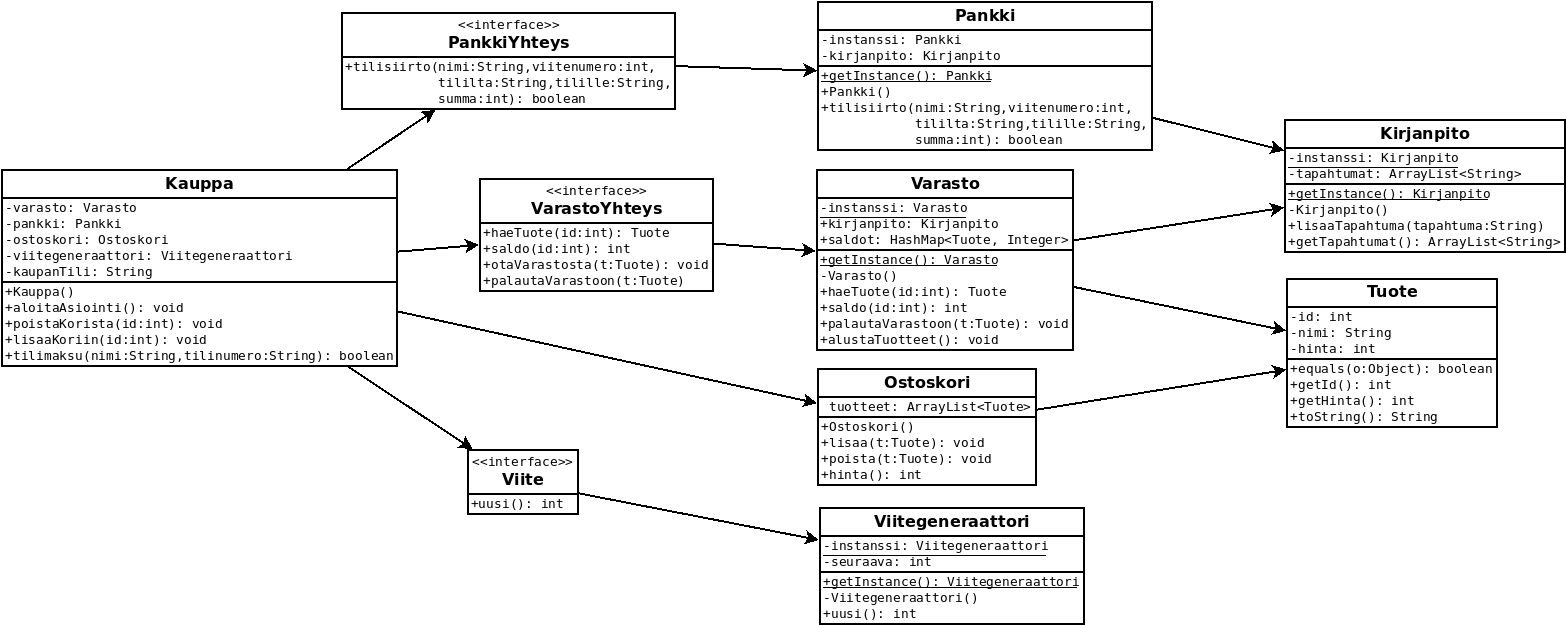
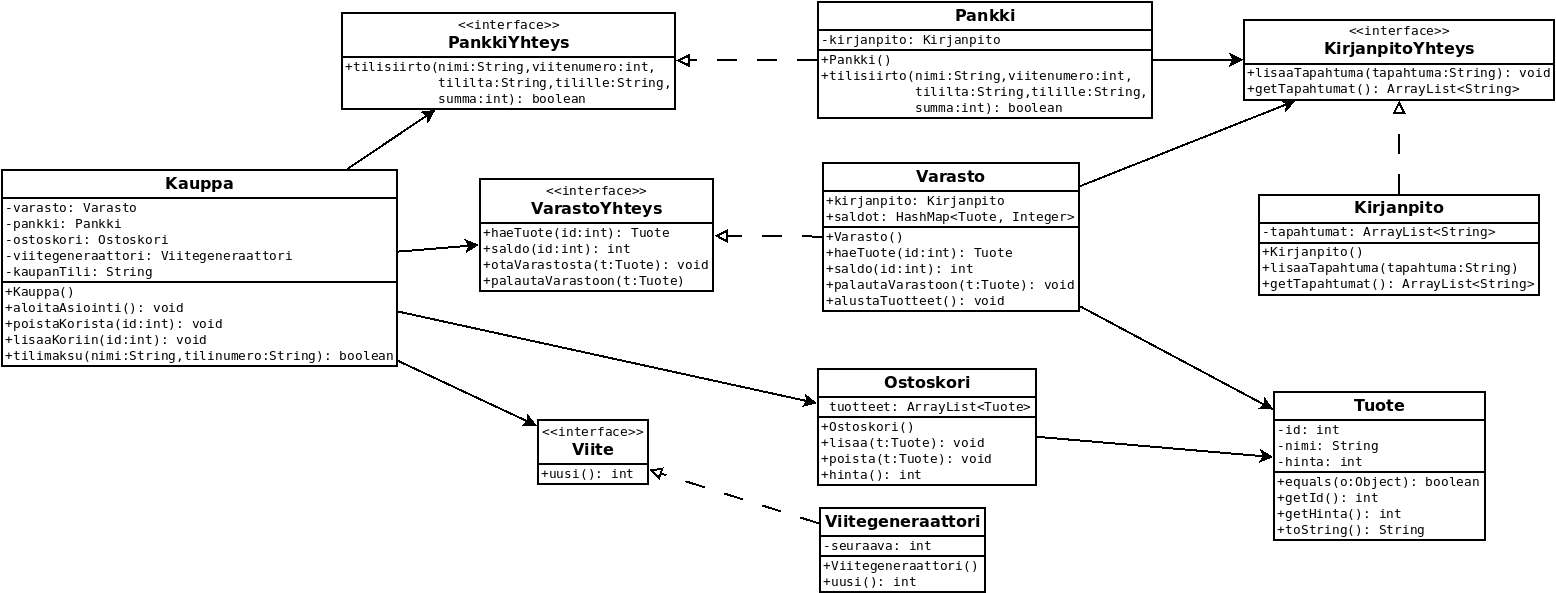
Viikko 2 - Tehtävä 10

diff --git a/viikko2/tehtavat9-12/Verkkokauppa1/src/main/java/ohtu/Main.java b/viikko2/tehtavat9-12/Verkkokauppa1/src/main/java/ohtu/Main.java
@@ -5,10 +5,11 @@ import ohtu.verkkokauppa.*;
 public class Main {
 
     public static void main(String[] args) {
+        Kirjanpito kirjanpito = new Kirjanpito();
         Kauppa kauppa = new Kauppa(
-                Varasto.getInstance(),
-                Pankki.getInstance(),
-                Viitegeneraattori.getInstance()
+                new Varasto(kirjanpito),
+                new Pankki(kirjanpito),
+                new Viitegeneraattori()
         );
 
         // kauppa hoitaa yhden asiakkaan kerrallaan seuraavaan tapaan:
@@ -28,7 +29,7 @@ public class Main {
         kauppa.tilimaksu("Arto Vihavainen", "3425-1652");
 
         // kirjanpito
-        for (String tapahtuma : Kirjanpito.getInstance().getTapahtumat()) {
+        for (String tapahtuma : kirjanpito.getTapahtumat()) {
             System.out.println(tapahtuma);
         }
     }

diff --git a/viikko2/tehtavat9-12/Verkkokauppa1/src/main/java/ohtu/verkkokauppa/Kirjanpito.java b/viikko2/tehtavat9-12/Verkkokauppa1/src/main/java/ohtu/verkkokauppa/Kirjanpito.java
@@ -3,27 +3,19 @@ package ohtu.verkkokauppa;
 
 import java.util.ArrayList;
 
-public class Kirjanpito {
-    private static Kirjanpito instance;
-    
-    public static Kirjanpito getInstance() {
-        if ( instance==null) {
-            instance = new Kirjanpito();
-        }
-        
-        return instance;
-    }
-    
+public class Kirjanpito implements KirjanpitoYhteys {
     private ArrayList<String> tapahtumat;
 
-    private Kirjanpito() {
+    public Kirjanpito() {
         tapahtumat = new ArrayList<String>();
     }
     
+    @Override
     public void lisaaTapahtuma(String tapahtuma) {
         tapahtumat.add(tapahtuma);
     }
 
+    @Override
     public ArrayList<String> getTapahtumat() {
         return tapahtumat;
     }       

diff --git a/viikko2/tehtavat9-12/Verkkokauppa1/src/main/java/ohtu/verkkokauppa/Varasto.java b/viikko2/tehtavat9-12/Verkkokauppa1/src/main/java/ohtu/verkkokauppa/Varasto.java
@@ -3,22 +3,11 @@ package ohtu.verkkokauppa;
 import java.util.*;
 
 public class Varasto implements VarastoYhteys {
-
-    private static Varasto instanssi;
-
-    public static Varasto getInstance() {
-        if (instanssi == null) {
-            instanssi = new Varasto();
-        }
-
-        return instanssi;
-    }
-
-    private Kirjanpito kirjanpito;
+    private KirjanpitoYhteys kirjanpito;
     private HashMap<Tuote, Integer> saldot;  
     
-    private Varasto() {
-        kirjanpito = Kirjanpito.getInstance();
+    public Varasto(KirjanpitoYhteys k) {
+        kirjanpito = k;
         saldot = new HashMap<Tuote, Integer>();
         alustaTuotteet();
     }

diff --git a/viikko2/tehtavat9-12/Verkkokauppa1/src/main/java/ohtu/verkkokauppa/Pankki.java b/viikko2/tehtavat9-12/Verkkokauppa1/src/main/java/ohtu/verkkokauppa/Pankki.java
@@ -1,20 +1,10 @@
 package ohtu.verkkokauppa;
 
 public class Pankki implements PankkiYhteys {
+    private KirjanpitoYhteys kirjanpito;
 
-    private static Pankki instanssi;
-
-    public static Pankki getInstance() {
-        if (instanssi == null) {
-            instanssi = new Pankki();
-        }
-
-        return instanssi;
-    }
-    private Kirjanpito kirjanpito;
-
-    public Pankki() {
-        kirjanpito = Kirjanpito.getInstance();
+    public Pankki(KirjanpitoYhteys k) {
+        kirjanpito = k;
     }
 
     public boolean tilisiirto(String nimi, int viitenumero, String tililta, String tilille, int summa) {

diff --git a/viikko2/tehtavat9-12/Verkkokauppa1/src/main/java/ohtu/verkkokauppa/Viitegeneraattori.java b/viikko2/tehtavat9-12/Verkkokauppa1/src/main/java/ohtu/verkkokauppa/Viitegeneraattori.java
@@ -1,20 +1,9 @@
 package ohtu.verkkokauppa;
 
 public class Viitegeneraattori implements Viite {
-
-    private static Viitegeneraattori instanssi;
-
-    public static Viitegeneraattori getInstance() {
-        if (instanssi == null) {
-            instanssi = new Viitegeneraattori();
-        }
-
-        return instanssi;
-    }
-    
     private int seuraava;
     
-    private Viitegeneraattori(){
+    public Viitegeneraattori(){
         seuraava = 1;    
     }
     

diff --git a/viikko2/tehtavat9-12/Verkkokauppa1/src/main/java/ohtu/verkkokauppa/KirjanpitoYhteys.java b/viikko2/tehtavat9-12/Verkkokauppa1/src/main/java/ohtu/verkkokauppa/KirjanpitoYhteys.java
@@ -1,0 +1,12 @@
+package ohtu.verkkokauppa;
+
+import java.util.*;
+
+/**
+ *
+ * @author pentu
+ */
+public interface KirjanpitoYhteys {
+    ArrayList<String> getTapahtumat();
+    void lisaaTapahtuma(String tapahtuma);
+}
